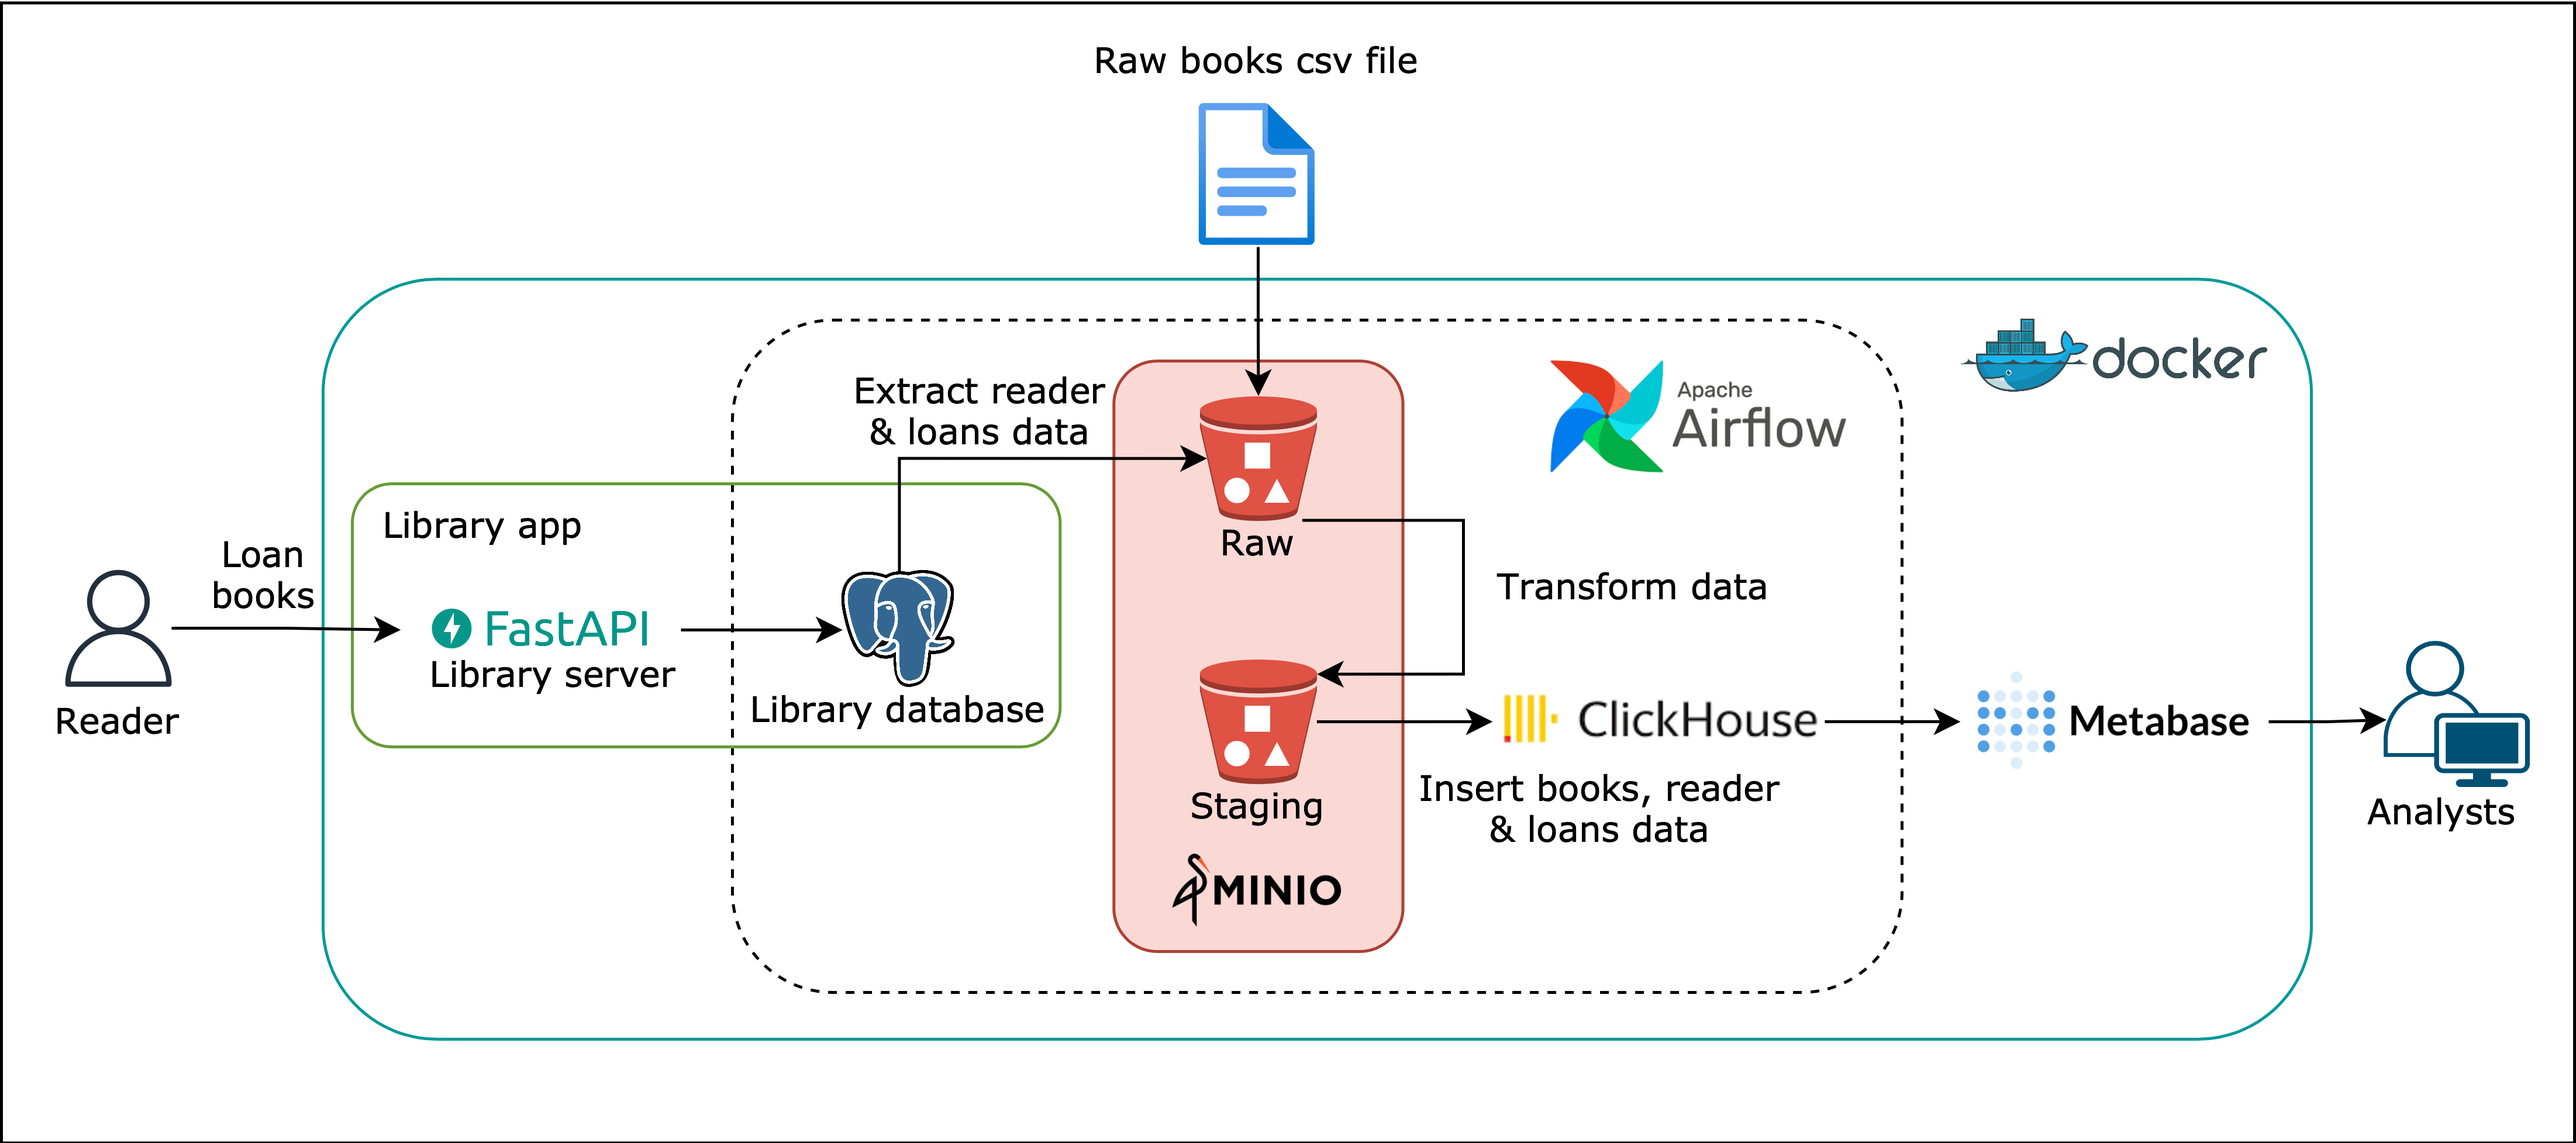
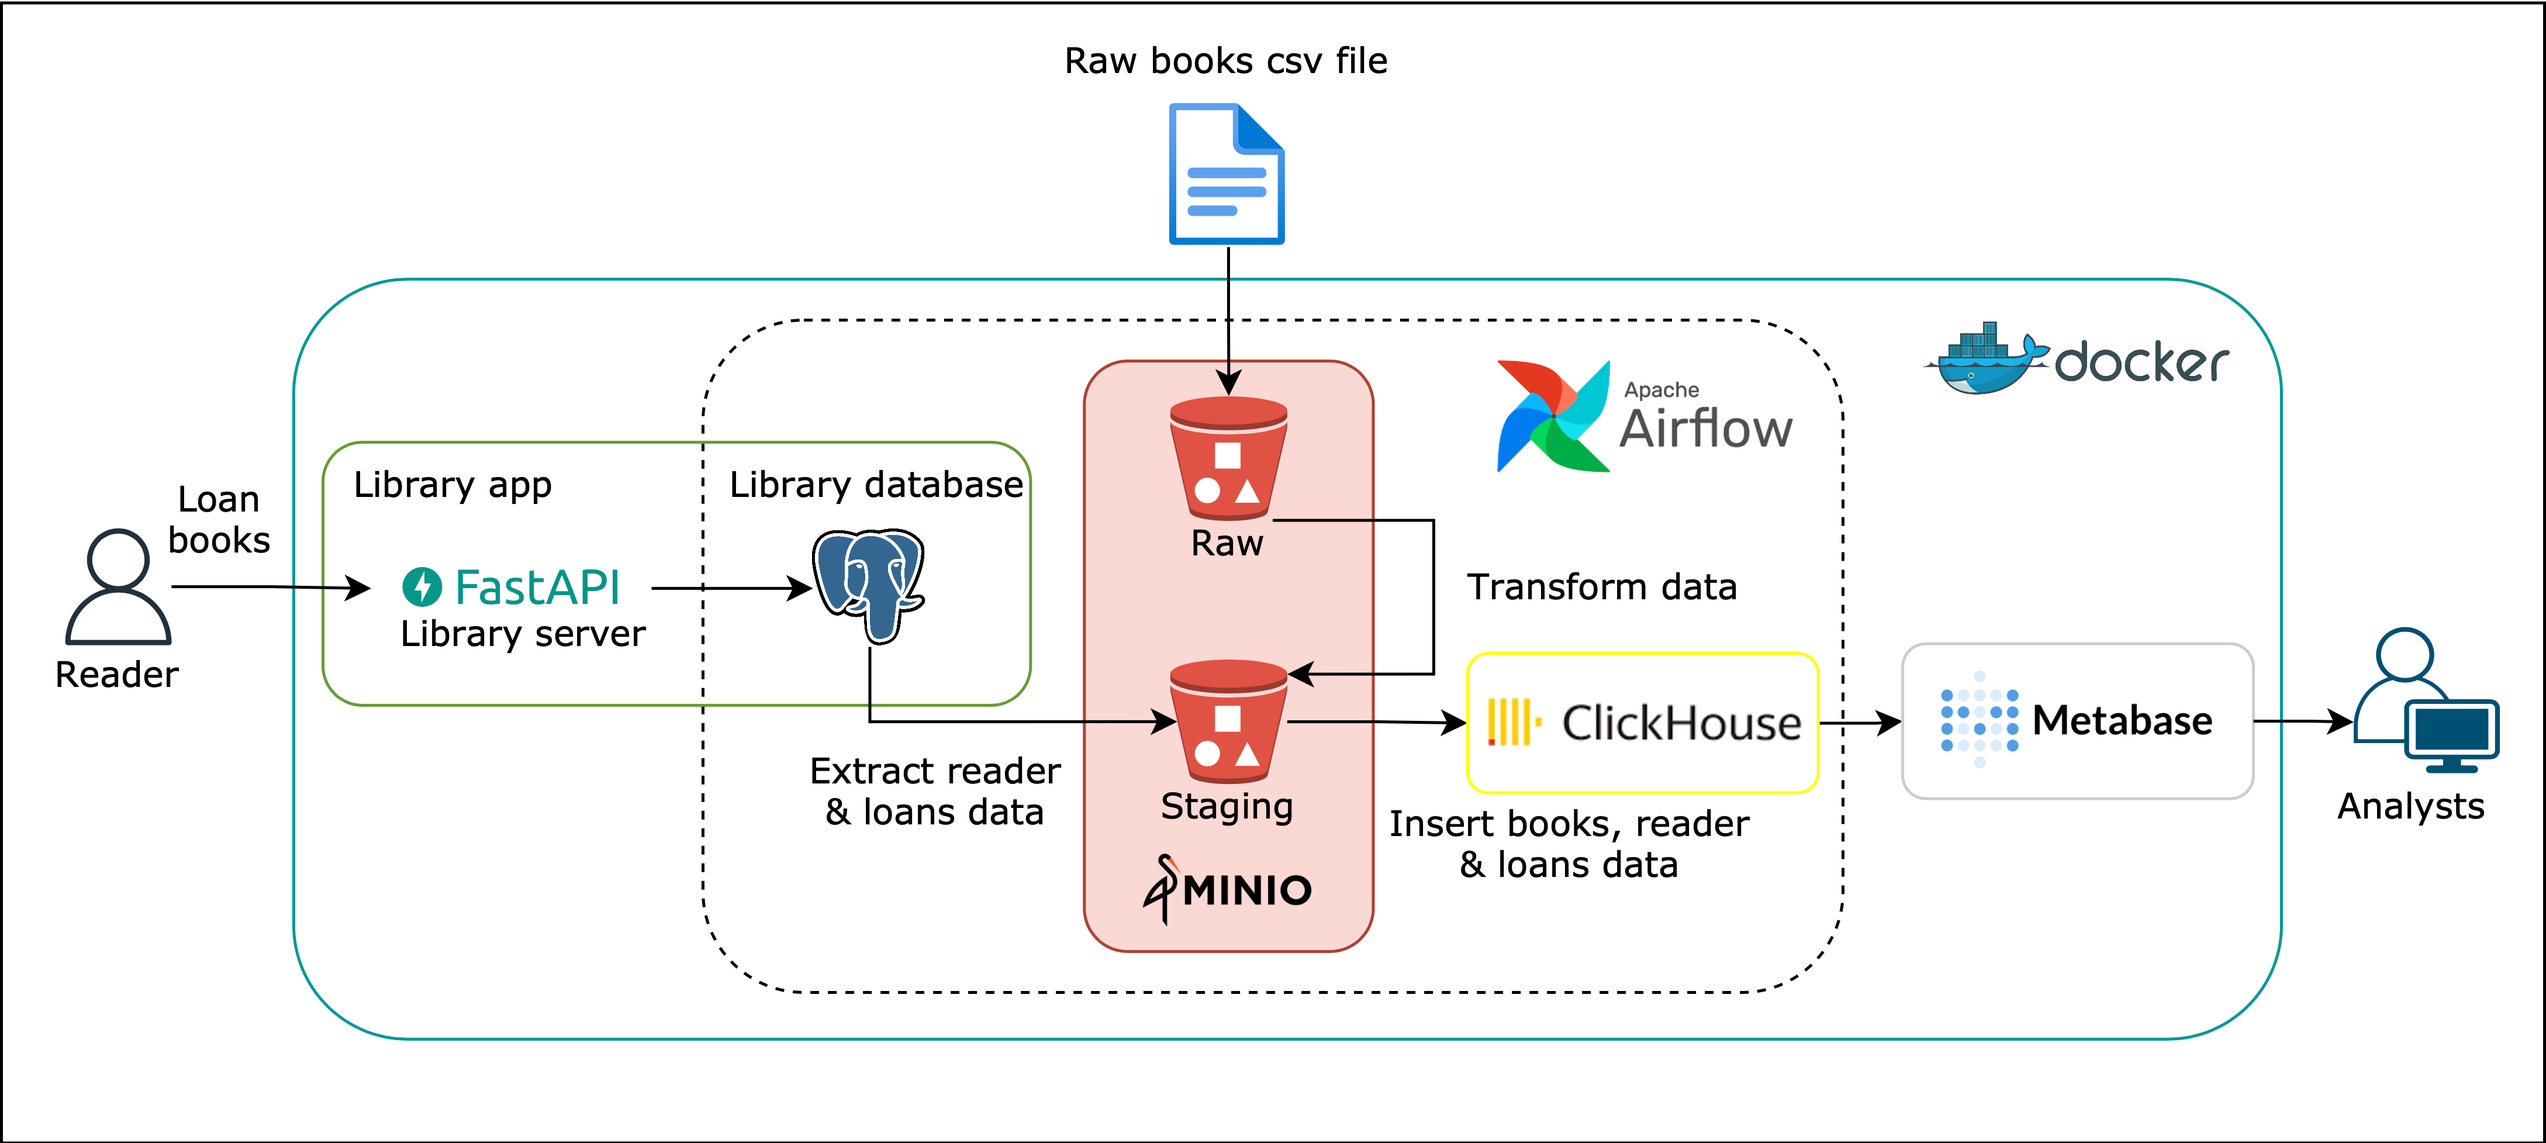
Update pipeline flow

diff --git a/airflow/dags/insert_raw_books_data.py b/airflow/dags/insert_raw_books_data.py
@@ -60,8 +60,18 @@ with DAG(
         },
     )
 
-    upload_books_csv = PythonOperator(
-        task_id="upload_parsed_books_data",
+    upload_books_csv_to_minio = PythonOperator(
+        task_id="upload_parsed_books_data_to_minio",
+        python_callable=MINIO.upload_file,
+        op_kwargs={
+            "bucket_name": "stage",
+            "object_name": "stage/books/{{ ds }}/books.csv",
+            "file_path": PARSED_BOOKS_FILE_PATH,
+        },
+    )
+
+    upload_books_csv_to_clickhouse = PythonOperator(
+        task_id="upload_parsed_books_data_to_clickhouse",
         python_callable=CLICKHOUSE.upload_csv_file,
         op_kwargs={
             "table": "dim_books",
@@ -69,8 +79,18 @@ with DAG(
         },
     )
 
-    upload_authors_csv = PythonOperator(
-        task_id="upload_authors_data",
+    upload_authors_csv_to_minio = PythonOperator(
+        task_id="upload_authors_data_to_minio",
+        python_callable=MINIO.upload_file,
+        op_kwargs={
+            "bucket_name": "stage",
+            "object_name": "stage/authors/{{ ds }}/authors.csv",
+            "file_path": AUTHORS_FILE_PATH,
+        },
+    )
+
+    upload_authors_csv_to_clickhouse = PythonOperator(
+        task_id="upload_authors_data_to_clickhouse",
         python_callable=CLICKHOUSE.upload_csv_file,
         op_kwargs={
             "table": "dim_authors",
@@ -78,8 +98,18 @@ with DAG(
         },
     )
 
-    upload_written_csv = PythonOperator(
-        task_id="upload_written_data",
+    upload_written_csv_to_minio = PythonOperator(
+        task_id="upload_written_data_to_minio",
+        python_callable=MINIO.upload_file,
+        op_kwargs={
+            "bucket_name": "stage",
+            "object_name": "stage/written/{{ ds }}/written.csv",
+            "file_path": WRITTEN_FILE_PATH,
+        },
+    )
+
+    upload_written_csv_to_clickhouse = PythonOperator(
+        task_id="upload_written_data_to_clickhouse",
         python_callable=CLICKHOUSE.upload_csv_file,
         op_kwargs={
             "table": "dim_written",
@@ -93,11 +123,23 @@ with DAG(
         trigger_rule="all_success",
     )
 
-    download_raw_data >> write_books_csv >> upload_books_csv >> remove_files
     (
         download_raw_data
-        >> write_authors_csv
-        >> upload_authors_csv
-        >> upload_written_csv
+        >> write_books_csv
+        >> upload_books_csv_to_minio
+        >> upload_books_csv_to_clickhouse
+        >> remove_files
+    )
+    download_raw_data >> write_authors_csv
+    (
+        write_authors_csv
+        >> upload_authors_csv_to_minio
+        >> upload_authors_csv_to_clickhouse
+        >> remove_files
+    )
+    (
+        write_authors_csv
+        >> upload_written_csv_to_minio
+        >> upload_written_csv_to_clickhouse
         >> remove_files
     )
